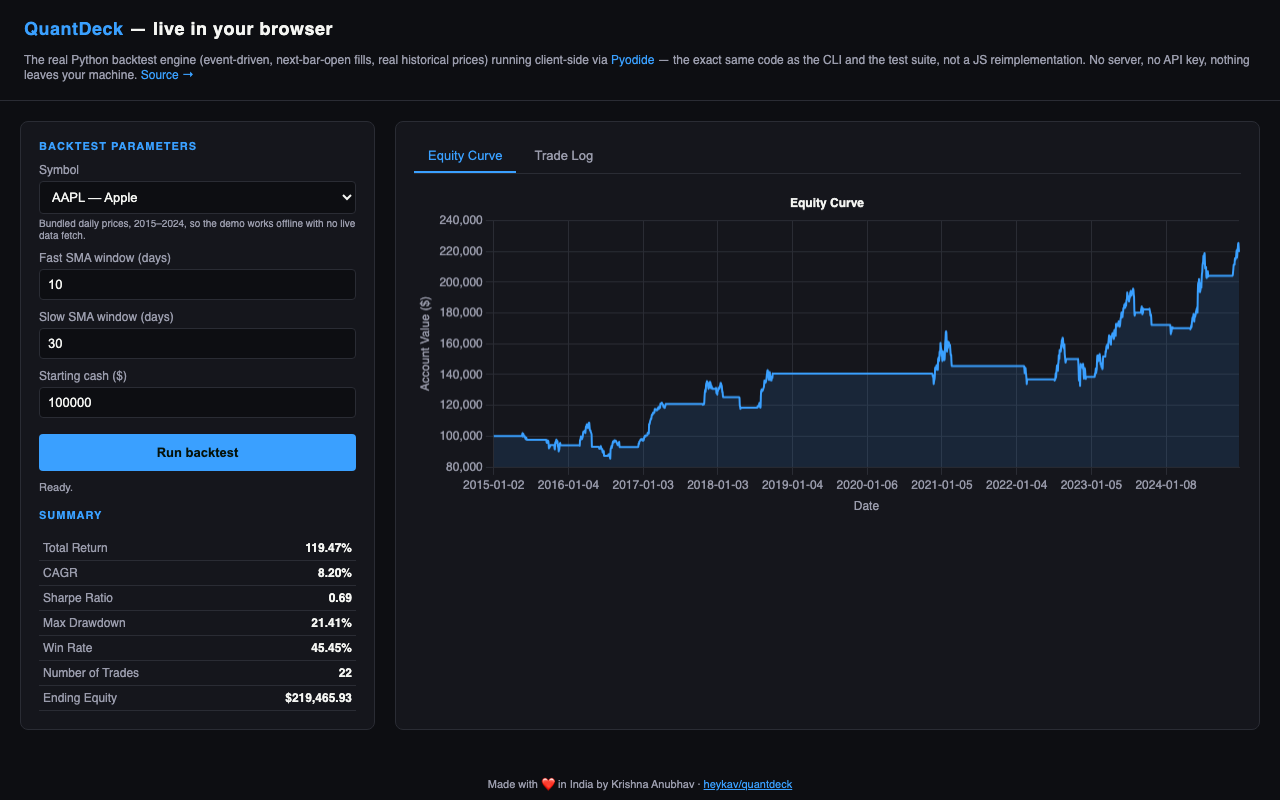
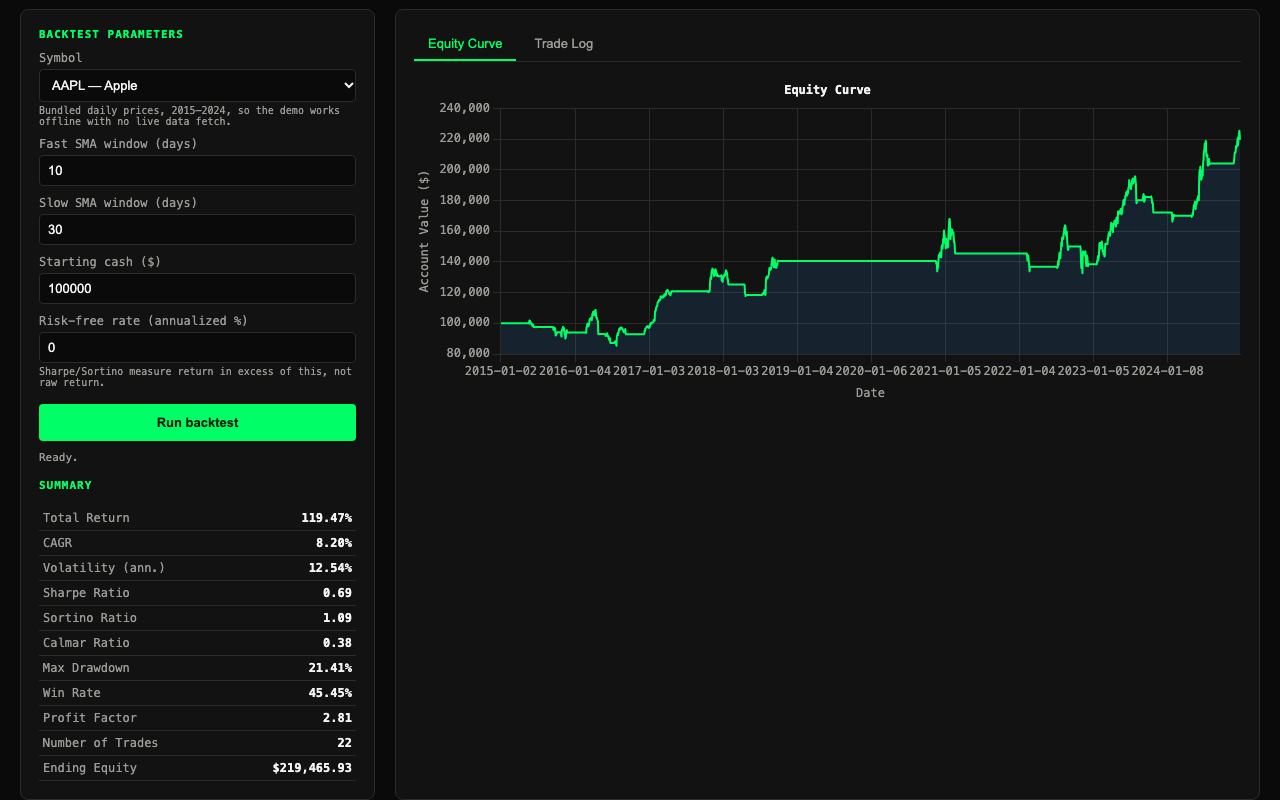
Polish public pages: hero, how-it-works diagram, demo restyle, social preview
- Add generated hero and how-it-works SVGs (dark and light, Safari-safe, reduced-motion aware), drawn from a real run of the bundled engine
- Restyle the live demo to the green terminal look, add a visible disclaimer
- Fix og-image: new 1280x630 image, og:image:height meta now matches
- Retake both screenshots from the real demo
- scripts/render_assets.py regenerates all of it

diff --git a/docs/styles.css b/docs/styles.css
@@ -1,11 +1,11 @@
 :root {
-  --bg: #0d0e12;
-  --panel: #15161c;
-  --border: #2a2c34;
+  --bg: #090A09;
+  --panel: #111211;
+  --border: #2a2c29;
   --text: #F4F5F2;
-  --muted: #9a9cac;
-  --accent: #3aa0ff;
-  --green: #3ddc84;
+  --muted: #9a9c96;
+  --accent: #00FF66;
+  --green: #00FF66;
   --red: #ff5c5c;
 }
 * { box-sizing: border-box; }
@@ -13,7 +13,7 @@ body {
   margin: 0;
   background: var(--bg);
   color: var(--text);
-  font-family: -apple-system, "SF Pro Text", "Segoe UI", sans-serif;
+  font-family: ui-monospace, "SFMono-Regular", "DM Mono", "DejaVu Sans Mono", Menlo, Consolas, monospace;
   font-size: 14px;
 }
 header {
@@ -24,7 +24,7 @@ header {
   gap: 14px;
   flex-wrap: wrap;
 }
-header h1 { margin: 0; font-size: 18px; letter-spacing: 0.5px; }
+header h1 { margin: 0; font-family: Georgia, "Times New Roman", serif; font-size: 22px; letter-spacing: 0.5px; }
 header h1 span { color: var(--accent); }
 header p { margin: 0; color: var(--muted); font-size: 12px; }
 header a { color: var(--accent); text-decoration: none; }
@@ -71,7 +71,7 @@ button#run {
   width: 100%;
   margin-top: 16px;
   background: var(--accent);
-  color: #06130a;
+  color: #031a0b;
   border: none;
   border-radius: 4px;
   padding: 11px;
@@ -113,4 +113,15 @@ footer a { color: var(--accent); }
   .layout { padding: 12px; gap: 12px; }
   header { padding: 14px 16px; }
   #controls { min-width: 0; }
+}
+
+.hero { max-width: 1400px; margin: 20px auto 0; padding: 0 20px; }
+.hero img { width: 100%; height: auto; display: block; border-radius: 14px; }
+.how { max-width: 1400px; margin: 0 auto; padding: 0 20px 20px; }
+.how img { width: 100%; height: auto; display: block; border-radius: 14px; }
+.disclaimer { max-width: 1400px; margin: 0 auto; padding: 0 20px 8px; color: var(--muted); font-size: 12px; line-height: 1.6; }
+.disclaimer strong { color: var(--text); }
+@media (prefers-color-scheme: light) {
+  :root { --bg: #F4F5F2; --panel: #eceeea; --border: #c4c7c0; --text: #111211; --muted: #54564f; --accent: #00A84A; --green: #00A84A; --red: #c62828; }
+  button#run { color: #fff; }
 }

diff --git a/docs/index.html b/docs/index.html
@@ -15,7 +15,7 @@
 <meta property="og:description" content="A simple, event-driven backtesting framework for algorithmic trading, running client-side via Pyodide — no server, no API key, real historical data." />
 <meta property="og:image" content="https://heykav.github.io/quantdeck/og-image.png" />
 <meta property="og:image:width" content="1280" />
-<meta property="og:image:height" content="800" />
+<meta property="og:image:height" content="630" />
 <meta property="og:site_name" content="QuantDeck" />
 <meta name="twitter:card" content="summary_large_image" />
 <meta name="twitter:title" content="QuantDeck — event-driven backtesting, live in your browser" />
@@ -38,6 +38,11 @@
         crossorigin="anonymous"></script>
 </head>
 <body>
+
+<div class="hero"><picture>
+  <source media="(prefers-color-scheme: light)" srcset="assets/hero-light.svg">
+  <img src="assets/hero.svg" alt="QuantDeck: a terminal window with a real equity curve from a bundled-data AAPL SMA 10/30 backtest" width="1200" height="440">
+</picture></div>
 
 <header>
   <h1><span>QuantDeck</span> — live in your browser</h1>
@@ -101,6 +106,13 @@
     </div>
   </div>
 </div>
+
+<div class="how"><picture>
+  <source media="(prefers-color-scheme: light)" srcset="assets/how-it-works-light.svg">
+  <img src="assets/how-it-works.svg" alt="How QuantDeck works: strategy, engine, data feed, paper broker, metrics" width="1200" height="380" loading="lazy">
+</picture></div>
+
+<p class="disclaimer"><strong>Educational tool, not financial advice.</strong> Results come from a simulation on bundled historical prices (2015-2024). Backtested performance does not guarantee future results, and a simulation cannot capture every real-world cost and risk.</p>
 
 <footer>Made with ❤ in India by Krishna Anubhav · <a href="https://github.com/heykav/quantdeck">heykav/quantdeck</a></footer>
 

diff --git a/docs/app.js b/docs/app.js
@@ -1,7 +1,8 @@
-const ACCENT = "#3aa0ff", MUTED = "#9a9cac", BORDER = "#2a2c34", TEXT = "#F4F5F2", GREEN = "#3ddc84", RED = "#ff5c5c";
+const LIGHT = window.matchMedia && window.matchMedia("(prefers-color-scheme: light)").matches;
+const ACCENT = LIGHT ? "#00A84A" : "#00FF66", MUTED = LIGHT ? "#54564f" : "#9a9c96", BORDER = LIGHT ? "#c4c7c0" : "#2a2c29", TEXT = LIGHT ? "#111211" : "#F4F5F2", GREEN = ACCENT, RED = LIGHT ? "#c62828" : "#ff5c5c";
 Chart.defaults.color = MUTED;
 Chart.defaults.borderColor = BORDER;
-Chart.defaults.font.family = "-apple-system, sans-serif";
+Chart.defaults.font.family = "ui-monospace, Menlo, Consolas, monospace";
 
 const SRC_FILES = [
   "quantdeck/__init__.py",

diff --git a/scripts/render_assets.py b/scripts/render_assets.py
@@ -1,0 +1,182 @@
+#!/usr/bin/env python3
+"""Renders the README hero, the how-it-works diagram and the social preview.
+
+Everything is generated from one real run of the bundled engine (AAPL, SMA 10/30,
+bundled 2015-2024 prices), so no number in a picture is typed in by hand.
+
+GitHub shows README SVGs through <img>: CSS and SMIL run, script does not. Every
+element is fully drawn in its base state, so a viewer that ignores animation, or
+asks for reduced motion, sees the finished picture. Text is plain font text with
+no per-character positions.
+
+Run from the repo root:  python3 scripts/render_assets.py
+"""
+import json
+import subprocess
+import sys
+from pathlib import Path
+
+ROOT = Path(__file__).resolve().parent.parent
+sys.path.insert(0, str(ROOT / "docs" / "quantdeck_src"))
+import web_glue  # noqa: E402
+
+MONO = 'ui-monospace,"SFMono-Regular","DM Mono","DejaVu Sans Mono",Menlo,Consolas,monospace'
+SERIF = 'Georgia,"Times New Roman",serif'
+
+DARK = dict(bg="#090A09", win="#111211", line="#2a2c29", grid="#1a1b1a", text="#F4F5F2",
+            mute="#9a9c96", a="#00FF66", b="#B6FF2E", chip="#0d0e0c", dot="#090A09")
+LIGHT = dict(bg="#F4F5F2", win="#eceeea", line="#c4c7c0", grid="#e2e3df", text="#111211",
+             mute="#54564f", a="#00A84A", b="#5f9a00", chip="#e6e8e3", dot="#F4F5F2")
+
+
+def run():
+    csv_text = (ROOT / "docs" / "data" / "AAPL.csv").read_text()
+    return json.loads(web_glue.run_web_backtest("AAPL", csv_text, 10, 30, 100000, 0))
+
+
+def curve_points(values, x0, y0, w, h, n=140):
+    step = max(1, len(values) // n)
+    v = values[::step] + [values[-1]]
+    lo, hi = min(v), max(v)
+    pts = [(x0 + w * i / (len(v) - 1), y0 + h - h * (p - lo) / (hi - lo)) for i, p in enumerate(v)]
+    return pts
+
+
+def path_d(pts):
+    return "M" + " L".join(f"{x:.1f} {y:.1f}" for x, y in pts)
+
+
+def chrome(c, w, title):
+    return (f'<rect x="0" y="0" width="{w}" height="40" fill="{c["bg"]}"/>'
+            f'<circle cx="24" cy="20" r="6" fill="#ff5f57"/><circle cx="44" cy="20" r="6" fill="#febc2e"/>'
+            f'<circle cx="64" cy="20" r="6" fill="#28c840"/>'
+            f'<text x="92" y="25" font-family=\'{MONO}\' font-size="13" fill="{c["mute"]}">{title}</text>'
+            f'<path d="M0 40 H{w}" stroke="{c["line"]}"/>')
+
+
+def hero(c, r):
+    W, H = 1200, 440
+    m = r["metrics"]
+    pts = curve_points(r["equity_curve"], 60, 250, 1080, 130)
+    d = path_d(pts)
+    area = d + f" L{pts[-1][0]:.1f} 392 L{pts[0][0]:.1f} 392 Z"
+    ex, ey = pts[-1]
+    chips = [("TOTAL RETURN", f'{m["total_return_pct"]:.2f}%'), ("MAX DRAWDOWN", f'{m["max_drawdown_pct"]:.2f}%'),
+             ("TRADES", str(m["num_trades"])), ("SHARPE", f'{m["sharpe"]:.2f}')]
+    chip_svg = ""
+    for i, (k, v) in enumerate(chips):
+        x = 60 + i * 190
+        chip_svg += (f'<rect x="{x}" y="188" width="176" height="56" rx="8" fill="{c["chip"]}" stroke="{c["line"]}"/>'
+                     f'<text x="{x+14}" y="209" font-family=\'{MONO}\' font-size="10" letter-spacing="1.5" fill="{c["mute"]}">{k}</text>'
+                     f'<text x="{x+14}" y="234" font-family=\'{MONO}\' font-size="20" font-weight="700" fill="{c["a"]}">{v}</text>')
+    return f'''<svg width="{W}" height="{H}" viewBox="0 0 {W} {H}" xmlns="http://www.w3.org/2000/svg" role="img" aria-labelledby="t d">
+<title id="t">QuantDeck</title>
+<desc id="d">A terminal window showing the QuantDeck name, its one-line pitch and a real equity curve from a bundled-data SMA 10/30 backtest of AAPL, 2015 to 2024, with the engine's own summary numbers.</desc>
+<defs>
+<pattern id="g" width="40" height="40" patternUnits="userSpaceOnUse"><path d="M40 0H0V40" fill="none" stroke="{c["grid"]}"/></pattern>
+<linearGradient id="s" x1="0" x2="1"><stop offset="0" stop-color="{c["a"]}"/><stop offset="1" stop-color="{c["b"]}"/></linearGradient>
+<linearGradient id="f" x1="0" y1="0" x2="0" y2="1"><stop offset="0" stop-color="{c["a"]}" stop-opacity=".22"/><stop offset="1" stop-color="{c["a"]}" stop-opacity="0"/></linearGradient>
+<clipPath id="k"><rect width="{W}" height="{H}" rx="14"/></clipPath>
+</defs>
+<style>
+.pulse{{animation:p 2.4s ease-in-out infinite}}
+@keyframes p{{0%,100%{{opacity:1}}50%{{opacity:.35}}}}
+@media (prefers-reduced-motion:reduce){{*{{animation:none!important}}}}
+</style>
+<g clip-path="url(#k)">
+<rect width="{W}" height="{H}" fill="{c["win"]}"/>
+<rect y="40" width="{W}" height="{H-40}" fill="{c["bg"]}"/><rect y="40" width="{W}" height="{H-40}" fill="url(#g)"/>
+{chrome(c, W, "quantdeck backtest strategy.py --symbol AAPL")}
+<text x="60" y="96" font-family=\'{MONO}\' font-size="13" letter-spacing="2.4" fill="{c["a"]}">EVENT-DRIVEN BACKTESTING</text>
+<text x="60" y="142" font-family=\'{SERIF}\' font-size="46" font-weight="700" fill="{c["text"]}">QuantDeck</text>
+<text x="62" y="168" font-family=\'{MONO}\' font-size="15" fill="{c["mute"]}">Write a strategy. Replay it on real prices. No server, no keys.</text>
+{chip_svg}
+<path d="M60 392 H1140" stroke="{c["line"]}"/>
+<path d="{area}" fill="url(#f)"/>
+<path d="{d}" fill="none" stroke="url(#s)" stroke-width="2.5" stroke-linejoin="round"/>
+<circle cx="{ex:.1f}" cy="{ey:.1f}" r="9" fill="{c["b"]}" opacity=".25" class="pulse"/>
+<circle cx="{ex:.1f}" cy="{ey:.1f}" r="4.5" fill="{c["b"]}"/>
+<text x="60" y="418" font-family=\'{MONO}\' font-size="11" fill="{c["mute"]}">Real engine output: AAPL, SMA 10/30, bundled daily prices 2015-2024, $100,000 start. A past simulation, not a prediction or advice.</text>
+</g>
+<rect x=".5" y=".5" width="{W-1}" height="{H-1}" rx="14" fill="none" stroke="{c["line"]}"/>
+</svg>
+'''
+
+
+def diagram(c):
+    W, H = 1200, 380
+    def box(x, y, w, h, title, sub, hi=False):
+        st = c["a"] if hi else c["line"]
+        return (f'<rect x="{x}" y="{y}" width="{w}" height="{h}" rx="10" fill="{c["win"]}" stroke="{st}" stroke-width="{1.6 if hi else 1}"/>'
+                f'<text x="{x+16}" y="{y+34}" font-family=\'{MONO}\' font-size="15" font-weight="700" fill="{c["text"]}">{title}</text>'
+                f'<text x="{x+16}" y="{y+58}" font-family=\'{MONO}\' font-size="12" fill="{c["mute"]}">{sub}</text>')
+    def arrow(x1, y1, x2, y2):
+        return (f'<path d="M{x1} {y1} L{x2} {y2}" stroke="{c["mute"]}" stroke-width="1.6"/>'
+                f'<path d="M{x2-7} {y2-5} L{x2} {y2} L{x2-7} {y2+5}" fill="none" stroke="{c["mute"]}" stroke-width="1.6"/>')
+    return f'''<svg width="{W}" height="{H}" viewBox="0 0 {W} {H}" xmlns="http://www.w3.org/2000/svg" role="img" aria-labelledby="t d">
+<title id="t">How QuantDeck works</title>
+<desc id="d">Your strategy receives one bar at a time from the engine. The engine reads bars from a data feed. Orders go to a simulated paper broker that fills them at the next bar's open. Fills feed the metrics and SQLite storage.</desc>
+<defs>
+<pattern id="g" width="40" height="40" patternUnits="userSpaceOnUse"><path d="M40 0H0V40" fill="none" stroke="{c["grid"]}"/></pattern>
+<clipPath id="k"><rect width="{W}" height="{H}" rx="14"/></clipPath>
+</defs>
+<style>@media (prefers-reduced-motion:reduce){{*{{animation:none!important}}}}</style>
+<g clip-path="url(#k)">
+<rect width="{W}" height="{H}" fill="{c["win"]}"/>
+<rect y="40" width="{W}" height="{H-40}" fill="{c["bg"]}"/><rect y="40" width="{W}" height="{H-40}" fill="url(#g)"/>
+{chrome(c, W, "how-it-works")}
+<text x="40" y="84" font-family=\'{MONO}\' font-size="13" letter-spacing="2.4" fill="{c["a"]}">ONE BAR AT A TIME</text>
+{box(40, 120, 230, 90, "Strategy", "your code: on_bar(bar)", True)}
+{box(335, 120, 230, 90, "BacktestEngine", "the loop, bar by bar")}
+{box(630, 120, 230, 90, "PaperBroker", "fills, slippage, fees")}
+{box(925, 120, 235, 90, "Metrics + SQLite", "return, Sharpe, drawdown")}
+{arrow(270, 165, 331, 165)}{arrow(565, 165, 626, 165)}{arrow(860, 165, 921, 165)}
+{box(335, 262, 230, 80, "DataFeed", "yfinance or CSV")}
+{arrow(450, 262, 450, 214)}
+<text x="40" y="250" font-family=\'{MONO}\' font-size="12" fill="{c["mute"]}">buy() / sell() go back</text>
+<text x="40" y="268" font-family=\'{MONO}\' font-size="12" fill="{c["mute"]}">to the engine as orders</text>
+<text x="630" y="250" font-family=\'{MONO}\' font-size="12" fill="{c["b"]}">Orders fill at the NEXT bar's open,</text>
+<text x="630" y="268" font-family=\'{MONO}\' font-size="12" fill="{c["b"]}">so a strategy never trades on the future.</text>
+<circle cx="52" cy="165" r="5" fill="{c["b"]}"><animate attributeName="cx" values="52;1140" dur="6s" repeatCount="indefinite"/></circle>
+</g>
+<rect x=".5" y=".5" width="{W-1}" height="{H-1}" rx="14" fill="none" stroke="{c["line"]}"/>
+</svg>
+'''
+
+
+def og(r):
+    c = DARK
+    m = r["metrics"]
+    pts = curve_points(r["equity_curve"], 80, 330, 1120, 200)
+    d = path_d(pts)
+    return f'''<svg width="1280" height="630" viewBox="0 0 1280 630" xmlns="http://www.w3.org/2000/svg">
+<defs><pattern id="g" width="40" height="40" patternUnits="userSpaceOnUse"><path d="M40 0H0V40" fill="none" stroke="{c["grid"]}"/></pattern>
+<linearGradient id="s" x1="0" x2="1"><stop offset="0" stop-color="{c["a"]}"/><stop offset="1" stop-color="{c["b"]}"/></linearGradient></defs>
+<rect width="1280" height="630" fill="{c["bg"]}"/><rect width="1280" height="630" fill="url(#g)"/>
+{chrome(c, 1280, "quantdeck backtest strategy.py --symbol AAPL")}
+<text x="80" y="130" font-family=\'{MONO}\' font-size="18" letter-spacing="3" fill="{c["a"]}">EVENT-DRIVEN BACKTESTING</text>
+<text x="80" y="210" font-family=\'{SERIF}\' font-size="84" font-weight="700" fill="{c["text"]}">QuantDeck</text>
+<text x="80" y="262" font-family=\'{MONO}\' font-size="24" fill="{c["mute"]}">Run the real Python engine in your browser.</text>
+<path d="{d} L{pts[-1][0]:.1f} 560 L80 560 Z" fill="{c["a"]}" opacity=".10"/>
+<path d="{d}" fill="none" stroke="url(#s)" stroke-width="4" stroke-linejoin="round"/>
+<text x="80" y="596" font-family=\'{MONO}\' font-size="16" fill="{c["mute"]}">heykav.github.io/quantdeck   |   AAPL SMA 10/30, 2015-2024: {m["total_return_pct"]:.2f}% total return (simulation, not advice)</text>
+</svg>
+'''
+
+
+def main():
+    r = run()
+    out = ROOT / "docs" / "assets"
+    out.mkdir(parents=True, exist_ok=True)
+    (out / "hero.svg").write_text(hero(DARK, r))
+    (out / "hero-light.svg").write_text(hero(LIGHT, r))
+    (out / "how-it-works.svg").write_text(diagram(DARK))
+    (out / "how-it-works-light.svg").write_text(diagram(LIGHT))
+    og_svg = out / "og-source.svg"
+    og_svg.write_text(og(r))
+    subprocess.run(["rsvg-convert", "-w", "1280", "-o", str(ROOT / "docs" / "og-image.png"), str(og_svg)], check=True)
+    og_svg.unlink()
+
+
+if __name__ == "__main__":
+    main()

diff --git a/README.md b/README.md
@@ -1,6 +1,15 @@
+<p align="center">
+  <a href="https://heykav.github.io/quantdeck/"><picture>
+    <source media="(prefers-color-scheme: light)" srcset="docs/assets/hero-light.svg">
+    <img src="docs/assets/hero.svg" alt="QuantDeck: a terminal window with a real equity curve from a bundled-data AAPL SMA 10/30 backtest" width="900">
+  </picture></a>
+</p>
+
 # QuantDeck
 
-A simple, event-driven backtesting framework for algorithmic trading strategies — zero-config, real market data out of the box, no database server required.
+A simple, event-driven backtesting framework for algorithmic trading strategies. Zero-config, real market data out of the box, no database server required.
+
+*The hero above is real engine output (AAPL, SMA 10/30, bundled 2015-2024 prices). It is a past simulation, not a prediction or financial advice.*
 
 <p>
   <a href="https://heykav.github.io/quantdeck/"><img src="https://img.shields.io/badge/Open%20the%20live%20web%20demo-QuantDeck-3AA0FF?style=for-the-badge&labelColor=0d0e12" alt="Open the live QuantDeck web demo"></a>
@@ -215,6 +224,15 @@ Want a slightly more advanced example? Look at [`examples/sma_crossover.py`](exa
 
 ## How it works under the hood
 
+<p align="center">
+  <picture>
+    <source media="(prefers-color-scheme: light)" srcset="docs/assets/how-it-works-light.svg">
+    <img src="docs/assets/how-it-works.svg" alt="Strategy, BacktestEngine, DataFeed, PaperBroker and Metrics, wired bar by bar" width="900">
+  </picture>
+</p>
+
+The same flow as text:
+
 ```
 Strategy (your code)
     │  on_bar(bar) → buy()/sell()
@@ -274,6 +292,7 @@ Terms you'll see throughout this project:
 pip install -e ".[dev]"
 pytest          # run the test suite
 ruff check .    # run the linter
+python3 scripts/render_assets.py   # regenerate the hero, diagram and social preview from a real engine run
 ```
 
 ---
